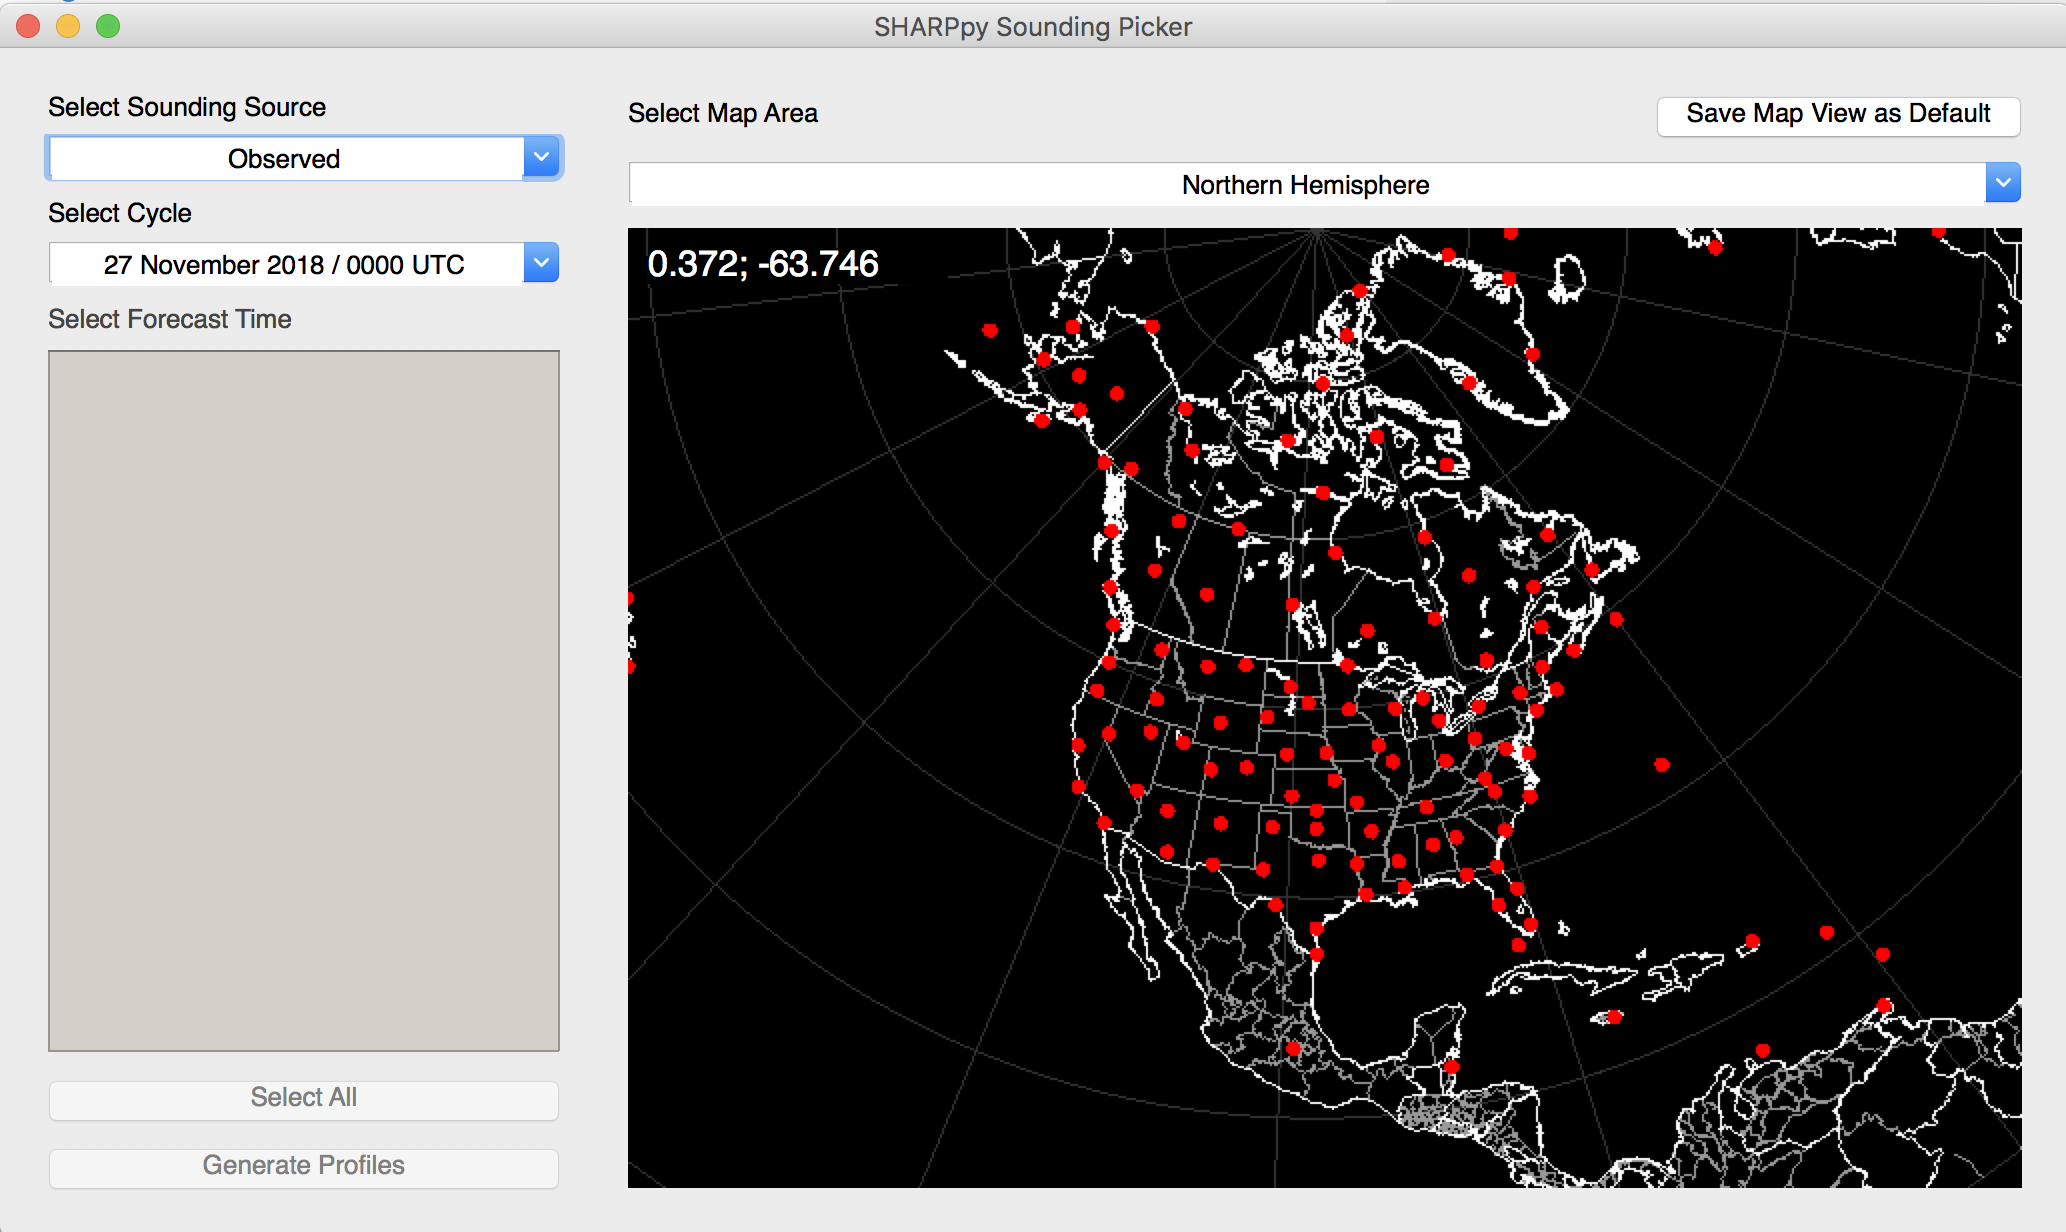
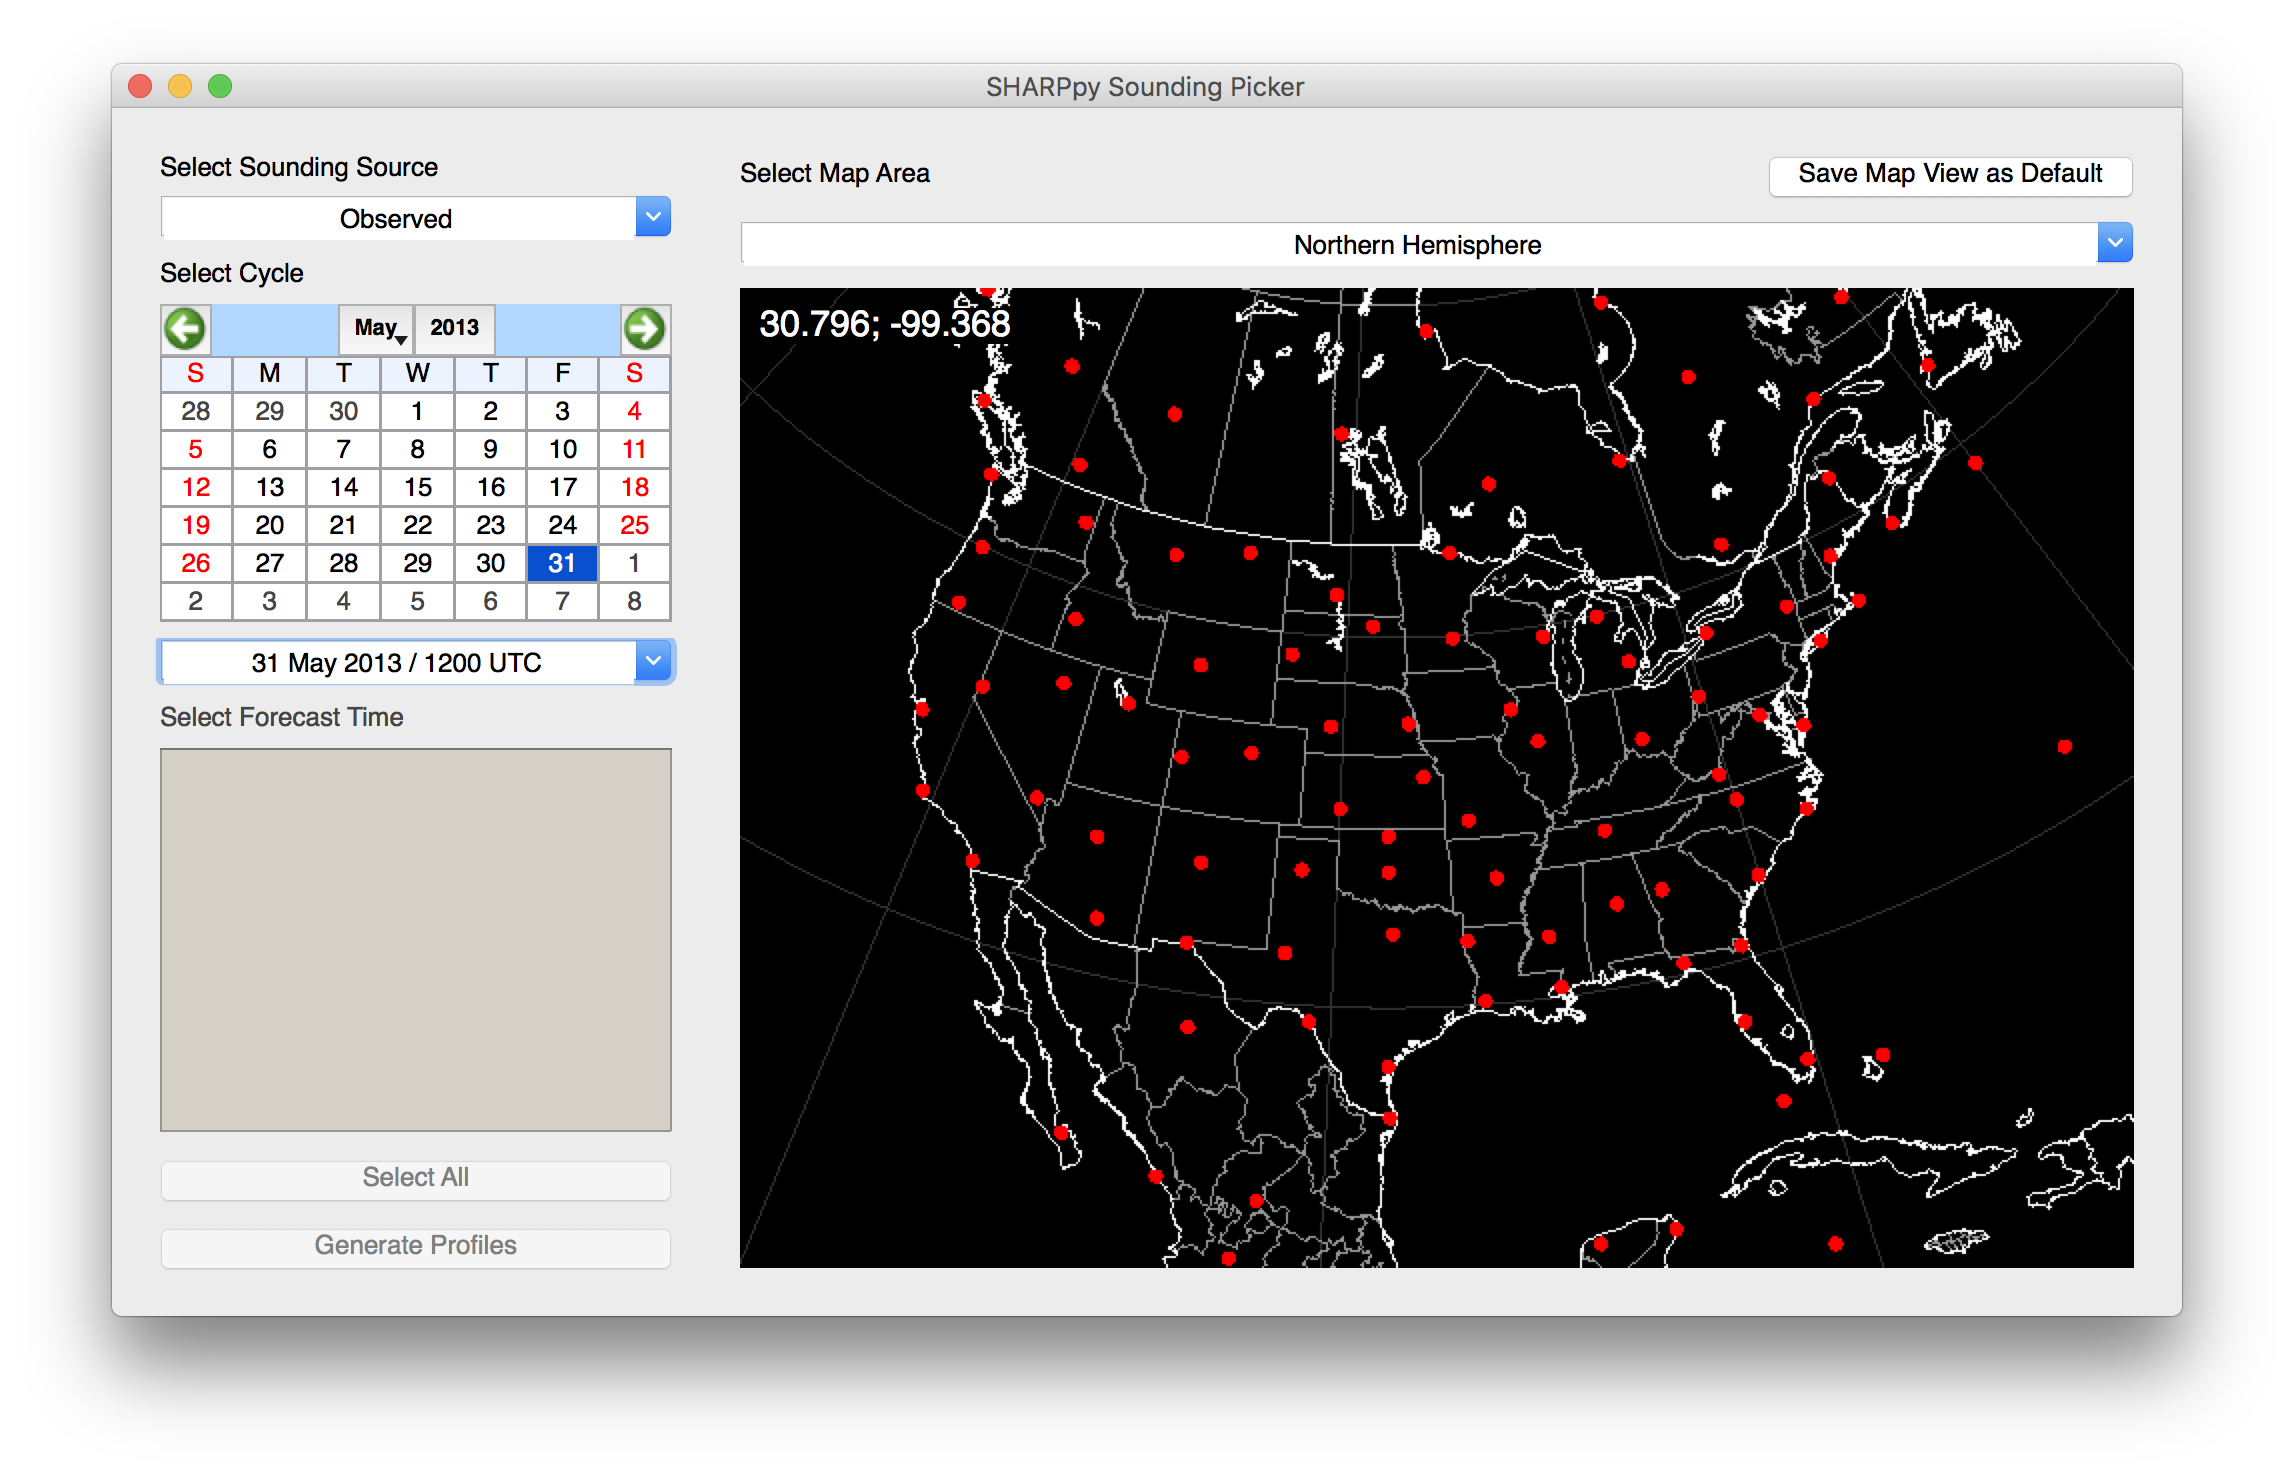
Updated pics in the docs

diff --git a/docs/source/index.rst b/docs/source/index.rst
@@ -7,7 +7,7 @@ Welcome to SHARPpy's documentation!
 ===================================
 
 
-.. image:: 14061619.OAX.sharppy.png
+.. image:: gui.sharppy.png
     :scale: 50%
     :alt: SHARPpy GUI Example
     :align: center